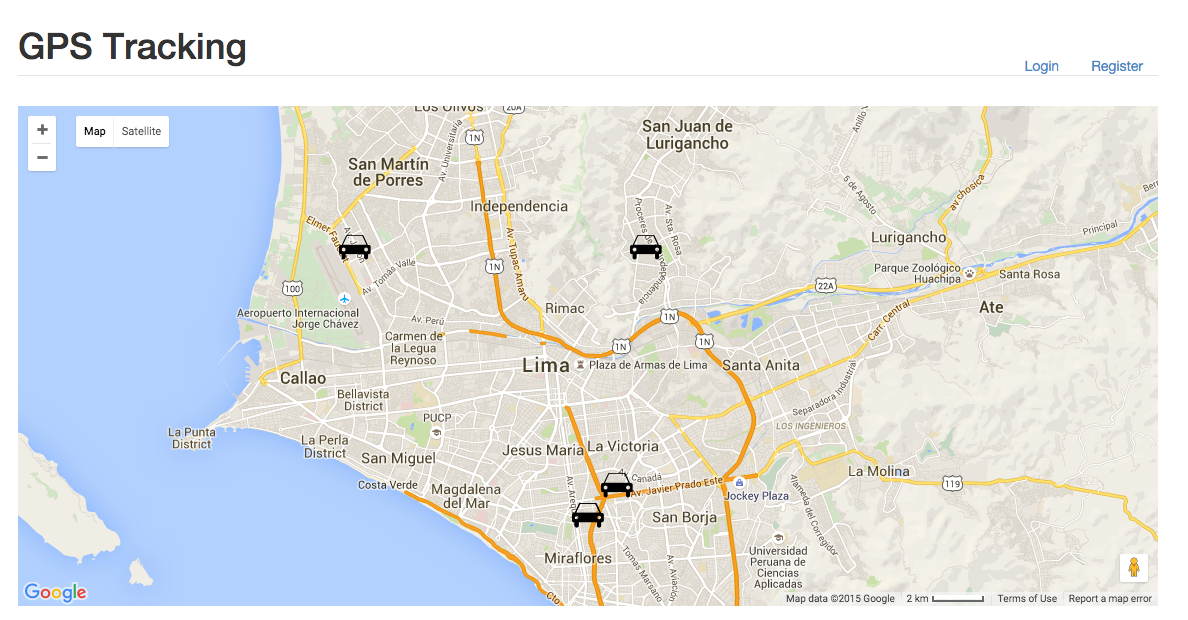
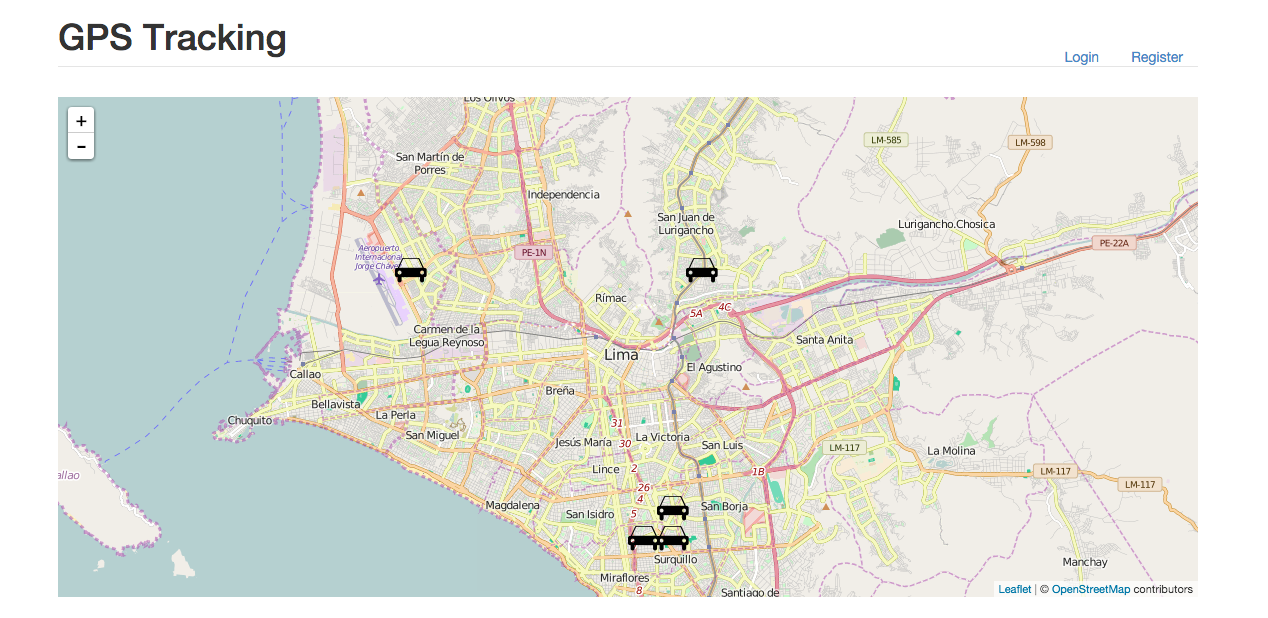
change maps library

diff --git a/web/static/js/app.js b/web/static/js/app.js
@@ -19,3 +19,48 @@ import "deps/phoenix_html/web/static/js/phoenix_html"
 // paths "./socket" or full ones "web/static/js/socket".
 
 import socket from "./socket"
+
+import L from 'leaflet'
+
+let channel = socket.channel('tracking:home', {})
+channel.join()
+  .receive('ok', resp => { console.log('Joined successfully', resp) })
+  .receive('error', resp => { console.log('Unable to join', resp) })
+
+let map = L.map('map', {}).setView([-12.043333, -77.028333], 12)
+let markers = {}
+
+L.tileLayer('http://{s}.tile.osm.org/{z}/{x}/{y}.png', {
+  attribution: '&copy; <a href="http://osm.org/copyright">OpenStreetMap</a> contributors',
+}).addTo(map)
+
+function putMarker(data) {
+  if (typeof data.vehicle_id === 'undefined') {
+    return
+  }
+  let key = data.vehicle_id.toString()
+  if (Object.keys(markers).indexOf(key) !== -1) {
+    markers[key].setLatLng([data.latitude, data.longitude])
+  } else {
+    let icon = L.icon({
+      iconUrl: '/images/car.png'
+    })
+    let marker = L.marker([data.latitude, data.longitude], {
+      icon: icon
+    })
+    marker.addTo(map)
+    marker.on('click', e => {
+      L.popup()
+        .setLatLng(e.latlng)
+        .setContent(`
+          Vehicle ${data.vehicle_id} latlng: (${data.latitude}, ${data.longitude})
+        `)
+        .openOn(map)
+    })
+    markers[key] = marker
+  }
+}
+
+channel.on('new_location', payload => {
+  putMarker(payload)
+})

diff --git a/web/static/js/socket.js b/web/static/js/socket.js
@@ -51,38 +51,6 @@ let socket = new Socket("/socket", {params: {token: window.userToken}})
 // Finally, pass the token on connect as below. Or remove it
 // from connect if you don't care about authentication.
 
-let map = new GMaps({
-  div: '#map',
-  lat: -12.043333,
-  lng: -77.028333,
-  zoom: 12
-})
-
-let markers = {}
-
-function addMarker(data) {
-  let key = data.vehicle_id.toString()
-  if (Object.keys(markers).indexOf(key) !== -1) {
-    markers[key].setMap(null)
-    delete markers[key]
-  }
-  markers[key] = map.addMarker({
-    lat: data.latitude,
-    lng: data.longitude,
-    icon: '/images/car.png'
-  }) 
-}
-
 socket.connect()
-
-// Now that you are connected, you can join channels with a topic:
-let channel = socket.channel('tracking:home', {})
-channel.join()
-  .receive('ok', resp => { console.log('Joined successfully', resp) })
-  .receive('error', resp => { console.log('Unable to join', resp) })
-
-channel.on('new_location', payload => {
-  addMarker(payload)
-})
 
 export default socket
